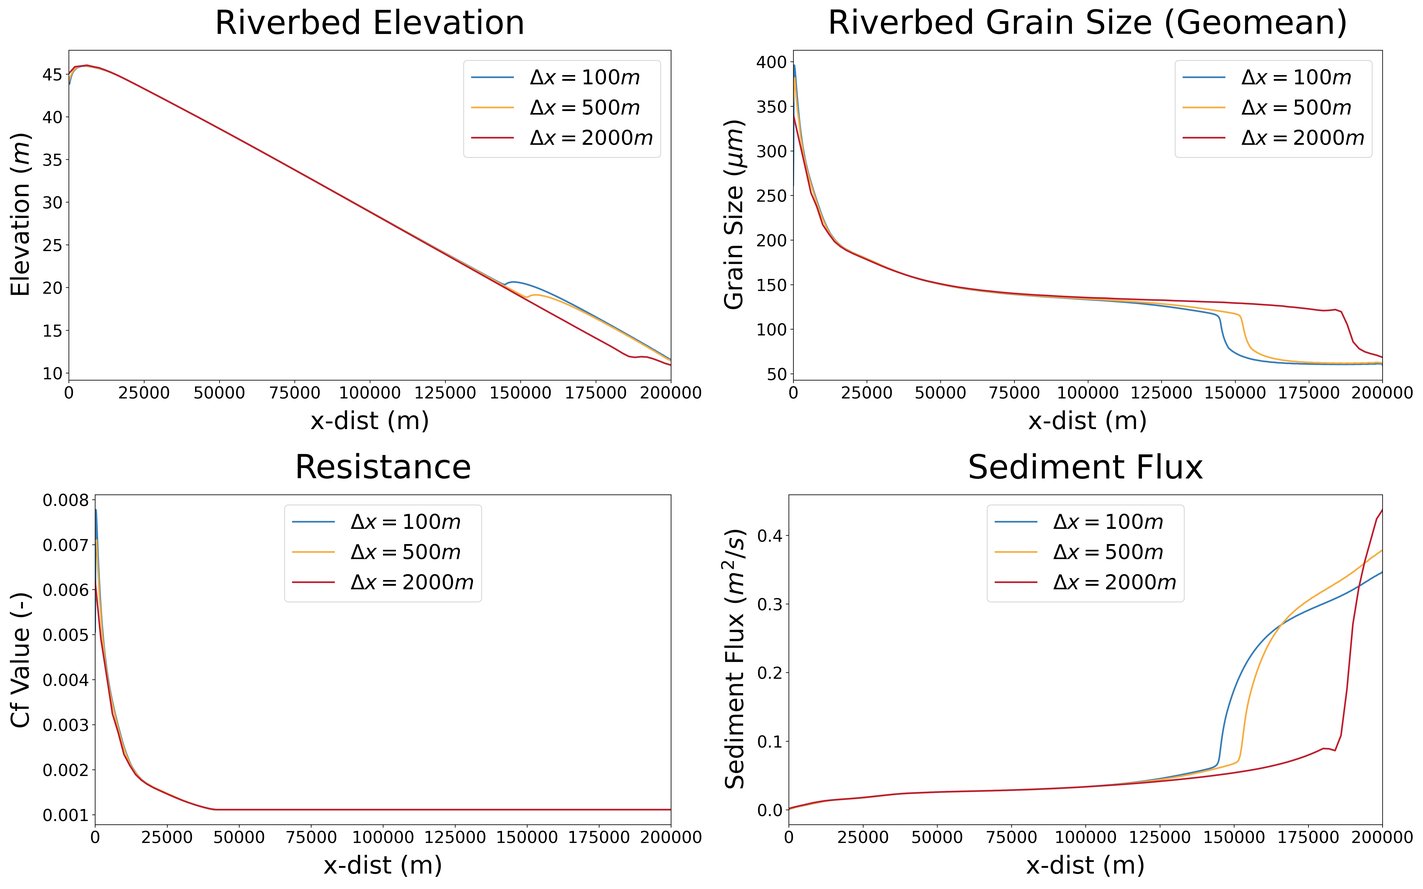
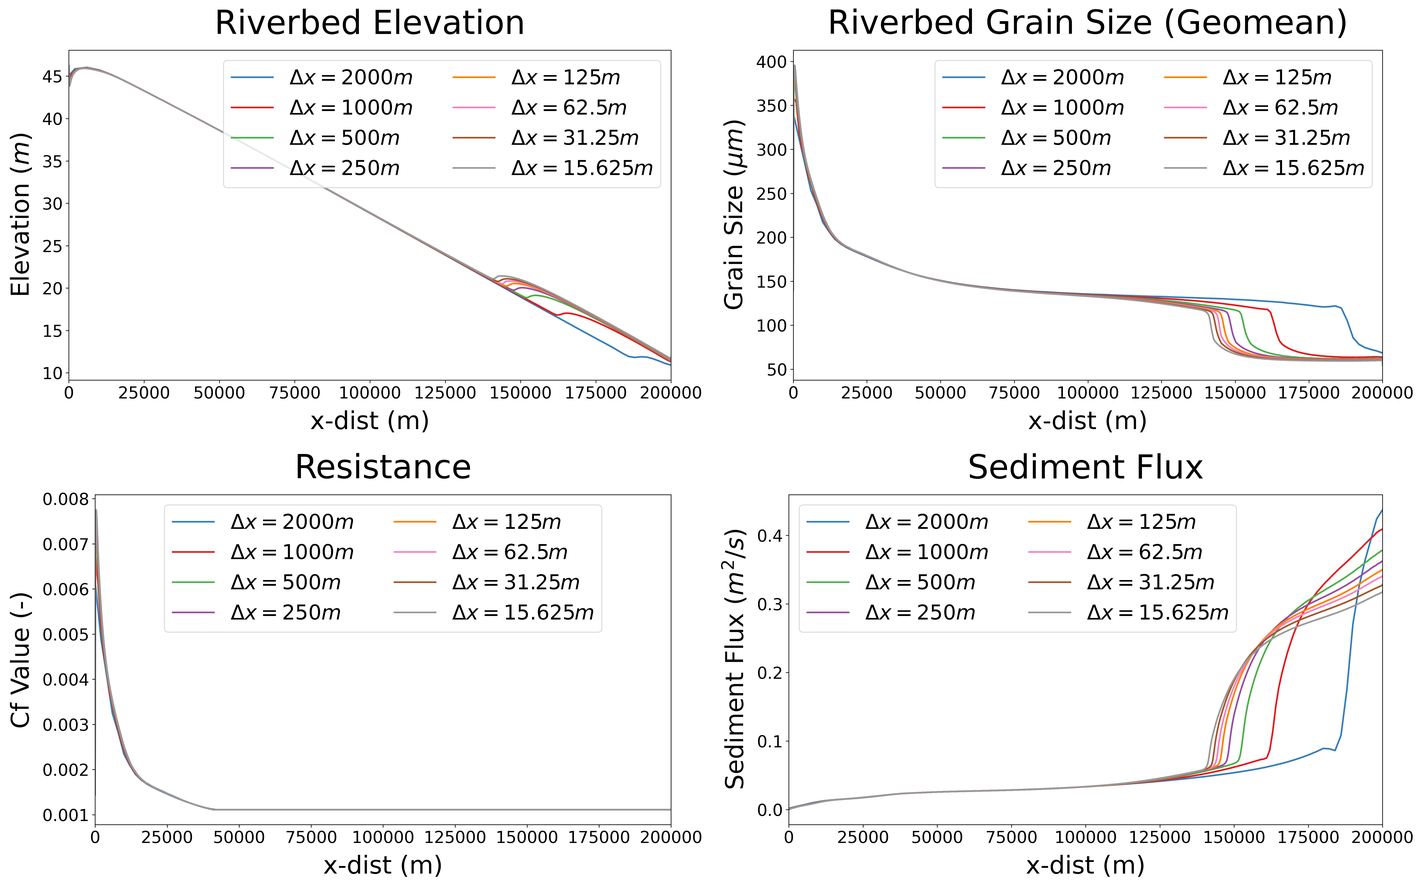
Site updated: 2025-11-06 12:26:18

diff --git a/2025/06/16/Transition-Morphodynamics/index.html b/2025/06/16/Transition-Morphodynamics/index.html
@@ -32,10 +32,16 @@
 <meta property="og:image" content="http://example.com/images/Transition-Morphodynamics/case3.png">
 <meta property="og:image" content="http://example.com/images/Transition-Morphodynamics/case4.png">
 <meta property="og:image" content="http://example.com/images/Transition-Morphodynamics/case5.png">
+<meta property="og:image" content="http://example.com/images/Transition-Morphodynamics/case6.png">
+<meta property="og:image" content="http://example.com/images/Transition-Morphodynamics/case7.png">
+<meta property="og:image" content="http://example.com/images/Transition-Morphodynamics/case8.png">
+<meta property="og:image" content="http://example.com/images/Transition-Morphodynamics/case9.png">
+<meta property="og:image" content="http://example.com/images/Transition-Morphodynamics/case10.png">
+<meta property="og:image" content="http://example.com/images/Transition-Morphodynamics/case11.png">
 <meta property="og:image" content="http://example.com/images/Transition-Morphodynamics/cmp1.png">
 <meta property="og:image" content="http://example.com/images/Transition-Morphodynamics/cmp2.png">
 <meta property="article:published_time" content="2025-06-16T02:21:08.000Z">
-<meta property="article:modified_time" content="2025-11-04T11:28:58.364Z">
+<meta property="article:modified_time" content="2025-11-06T03:57:17.822Z">
 <meta property="article:author" content="Tao Wang">
 <meta property="article:tag" content="Numerical Modeling">
 <meta name="twitter:card" content="summary">
@@ -190,7 +196,7 @@
                   <i class="far fa-calendar-check"></i>
                 </span>
                 <span class="post-meta-item-text">Edited on</span>
-                <time title="Modified: 2025-11-04 19:28:58" itemprop="dateModified" datetime="2025-11-04T19:28:58+08:00">2025-11-04</time>
+                <time title="Modified: 2025-11-06 11:57:17" itemprop="dateModified" datetime="2025-11-06T11:57:17+08:00">2025-11-06</time>
               </span>
 
           
@@ -304,25 +310,29 @@
 <h2 id="Case-3-sediment-cutoff-water-fluctuation-with-lower-magnitude"><a href="#Case-3-sediment-cutoff-water-fluctuation-with-lower-magnitude" class="headerlink" title="Case #3: sediment cutoff &amp; water fluctuation with lower magnitude"></a>Case #3: sediment cutoff &amp; water fluctuation with lower magnitude</h2><p>Similar with Case #2, but this case focuses on a lower variability, i.e., $A&#x3D;0.2$ for the magnitude。</p>
 <p><img src="/images/Transition-Morphodynamics/case3.png" alt="case3"></p>
 <p>The erosion wave progradates to $x\approx152km$, confirming that a higher magnitude brings a higher celerity.</p>
-<h2 id="Case-4-Finer-Grid"><a href="#Case-4-Finer-Grid" class="headerlink" title="Case #4: Finer Grid"></a>Case #4: Finer Grid</h2><p>This case is analogous with Case#3, increased grid number to enhance the resolution.</p>
-<p>$$<br>\begin{array}{cccc}  % 4列，均为居中对齐（l&#x3D;左对齐，r&#x3D;右对齐，c&#x3D;居中）<br>    \hline<br>    \text{Parameter} &amp; \text{Value} &amp; \text{Parameter} &amp; \text{Value} \\  % 第1行（表头）<br>    \hline<br>    L &amp; 200km &amp; \Delta x &amp; 0.1km\\<br>    q_w(t&#x3D;0) &amp; 10m^2&#x2F;s &amp; \text{GCFL} &amp; 0.5 \\<br>    q_C(t&#x3D;0) &amp; 2.33m^2&#x2F;s &amp; S &amp; 2\times 10^{-4}\\<br>    D_{sg} &amp; 75\mu m &amp; \sigma_D &amp; 2.5 \\<br>    A &amp; 0.2 &amp; n_w &amp; 10\\<br>    \hline  % 底部横线<br>\end{array}<br>$$</p>
+<h2 id="Case-4-Much-Finer-Grid1"><a href="#Case-4-Much-Finer-Grid1" class="headerlink" title="Case #4: Much Finer Grid1"></a>Case #4: Much Finer Grid1</h2><p>This case is analogous with Case#3, increased grid number to enhance the resolution, where the mesh grid is $\Delta x&#x3D;\frac{200km}{2000}&#x3D;100m$.</p>
 <p><img src="/images/Transition-Morphodynamics/case4.png"></p>
-<h2 id="Case-5-Coarser-Grid"><a href="#Case-5-Coarser-Grid" class="headerlink" title="Case #5: Coarser Grid"></a>Case #5: Coarser Grid</h2><p>This case is analogous with Case#3 and Case#4, decreased grid number to accelerate and test the robustness.</p>
-<p>$$<br>\begin{array}{cccc}  % 4列，均为居中对齐（l&#x3D;左对齐，r&#x3D;右对齐，c&#x3D;居中）<br>    \hline<br>    \text{Parameter} &amp; \text{Value} &amp; \text{Parameter} &amp; \text{Value} \\  % 第1行（表头）<br>    \hline<br>    L &amp; 200km &amp; \Delta x &amp; 2km\\<br>    q_w(t&#x3D;0) &amp; 10m^2&#x2F;s &amp; \text{GCFL} &amp; 0.5 \\<br>    q_C(t&#x3D;0) &amp; 2.33m^2&#x2F;s &amp; S &amp; 2\times 10^{-4}\\<br>    D_{sg} &amp; 75\mu m &amp; \sigma_D &amp; 2.5 \\<br>    A &amp; 0.2 &amp; n_w &amp; 10\\<br>    \hline  % 底部横线<br>\end{array}<br>$$</p>
+<h2 id="Case-5-Coarsest-Grid"><a href="#Case-5-Coarsest-Grid" class="headerlink" title="Case #5: Coarsest Grid"></a>Case #5: Coarsest Grid</h2><p>This case is analogous with Case#3, decreased grid number to test the accuracy, where the mesh grid is $\Delta x&#x3D;\frac{200km}{100}&#x3D;2000m$.</p>
 <p><img src="/images/Transition-Morphodynamics/case5.png"></p>
-<h2 id="Case-6-Finest-grid"><a href="#Case-6-Finest-grid" class="headerlink" title="Case #6: Finest grid"></a>Case #6: Finest grid</h2><p>$$<br>\begin{array}{cccc}  % 4列，均为居中对齐（l&#x3D;左对齐，r&#x3D;右对齐，c&#x3D;居中）<br>    \hline<br>    \text{Parameter} &amp; \text{Value} &amp; \text{Parameter} &amp; \text{Value} \\  % 第1行（表头）<br>    \hline<br>    L &amp; 200km &amp; \Delta x &amp; 31.25m\\<br>    q_w(t&#x3D;0) &amp; 10m^2&#x2F;s &amp; \text{GCFL} &amp; 0.5 \\<br>    q_C(t&#x3D;0) &amp; 2.33m^2&#x2F;s &amp; S &amp; 2\times 10^{-4}\\<br>    D_{sg} &amp; 75\mu m &amp; \sigma_D &amp; 2.5 \\<br>    A &amp; 0.2 &amp; n_w &amp; 10\\<br>    \hline  % 底部横线<br>\end{array}<br>$$</p>
-<h2 id="Case-7-Very-Fine"><a href="#Case-7-Very-Fine" class="headerlink" title="Case #7: Very Fine"></a>Case #7: Very Fine</h2><p>200km&#x2F;3200</p>
-<h2 id="Case-8"><a href="#Case-8" class="headerlink" title="Case #8"></a>Case #8</h2><p>200km&#x2F;1600</p>
-<h2 id="Case-9"><a href="#Case-9" class="headerlink" title="Case #9"></a>Case #9</h2><p>200km&#x2F;800</p>
-<h2 id="Case-10"><a href="#Case-10" class="headerlink" title="Case #10"></a>Case #10</h2><p>200km&#x2F;200</p>
-<h2 id="Case-11"><a href="#Case-11" class="headerlink" title="Case #11"></a>Case #11</h2><p>200km&#x2F;12800</p>
+<h2 id="Case-6-Very-Very-Fine-grid"><a href="#Case-6-Very-Very-Fine-grid" class="headerlink" title="Case #6: Very Very Fine grid"></a>Case #6: Very Very Fine grid</h2><p>This case is analogous with Case#3, increased grid number to enhance the resolution, where the mesh grid is $\Delta x&#x3D;\frac{200km}{6400}&#x3D;31.25m$</p>
+<p><img src="/images/Transition-Morphodynamics/case6.png"></p>
+<h2 id="Case-7-Very-Fine"><a href="#Case-7-Very-Fine" class="headerlink" title="Case #7: Very Fine"></a>Case #7: Very Fine</h2><p>This case is analogous with Case#3, increased grid number to enhance the resolution, where the mesh grid is $\Delta x&#x3D;\frac{200km}{3200}&#x3D;62.5m$</p>
+<p><img src="/images/Transition-Morphodynamics/case7.png"></p>
+<h2 id="Case-8-Much-Finer-Grid2"><a href="#Case-8-Much-Finer-Grid2" class="headerlink" title="Case #8 Much Finer Grid2"></a>Case #8 Much Finer Grid2</h2><p>This case is analogous with Case#3, increased grid number to enhance the resolution, where the mesh grid is $\Delta x&#x3D;\frac{200km}{1600}&#x3D;125m$</p>
+<p><img src="/images/Transition-Morphodynamics/case8.png"></p>
+<h2 id="Case-9-Finer-Grid"><a href="#Case-9-Finer-Grid" class="headerlink" title="Case #9 Finer Grid"></a>Case #9 Finer Grid</h2><p>This case is analogous with Case#3, increased grid number to enhance the resolution, where the mesh grid is $\Delta x&#x3D;\frac{200km}{800}&#x3D;250m$</p>
+<p><img src="/images/Transition-Morphodynamics/case9.png"></p>
+<h2 id="Case-10-Coarser-Grid"><a href="#Case-10-Coarser-Grid" class="headerlink" title="Case #10 Coarser Grid"></a>Case #10 Coarser Grid</h2><p>This case is analogous with Case#3, decreased grid number to test the accuracy and robustness, where the mesh grid is $\Delta x&#x3D;\frac{200km}{200}&#x3D;1000m$</p>
+<p><img src="/images/Transition-Morphodynamics/case10.png"></p>
+<h2 id="Case-11-Finest-Baseline-Grid"><a href="#Case-11-Finest-Baseline-Grid" class="headerlink" title="Case #11 Finest Baseline Grid"></a>Case #11 Finest Baseline Grid</h2><p>This case is analogous with Case#3, increased grid number to enhance the resolution and taken as the reference, where the mesh grid is $\Delta x&#x3D;\frac{200km}{12800}&#x3D;15.626m$</p>
+<p><img src="/images/Transition-Morphodynamics/case11.png"></p>
 <h1 id="Result"><a href="#Result" class="headerlink" title="Result"></a>Result</h1><h2 id="Impacts-of-flow-variability"><a href="#Impacts-of-flow-variability" class="headerlink" title="Impacts of flow variability"></a>Impacts of flow variability</h2><p>To demonstrate the impacts of flow variability, the magnitude of the sine function of water supply has been varied in Case #1, #2, #3. The comparison follows,</p>
 <p><img src="/images/Transition-Morphodynamics/cmp1.png"></p>
 <p>The scour holes have occured at different position, such that, the waves progradates at different paces and greater variability render a faster erosion wave. As to the part behind the erosion wave, the riverbed elevation profiles have shown no significant diference. Such that, flow variation makes no contribution to short-term riverbed downcutting, for which have reached quasi-equilibrium states.</p>
 <p>However, excluding the regions where flood waves have not yet arrived, the grain size distribution also differs. Greater flow variability leads to coarser bed material, as well as higher resistance coefficient and lower sediment entrainment capacity. Consequently, greater flow variability erodes riverbed much faster in a short-term view, while it also leaves a coarser riverbed for further long-term erosion.</p>
-<h2 id="Dependence-of-grid-meshes"><a href="#Dependence-of-grid-meshes" class="headerlink" title="Dependence of grid meshes"></a>Dependence of grid meshes</h2><p>To test the dependence of grid meshes and error levels, the density (or the length of spatial step) has been varied in Case #3, #4, #5. The comparison follows,</p>
+<h2 id="Dependence-of-grid-meshes"><a href="#Dependence-of-grid-meshes" class="headerlink" title="Dependence of grid meshes"></a>Dependence of grid meshes</h2><p>To test the dependence of grid meshes and error levels, the density (or the length of spatial step) has been varied in Case #3, and #4-#11. The comparison follows,</p>
 <p><img src="/images/Transition-Morphodynamics/cmp2.png" alt="compare2" title="grid meshes"></p>
-<p>Regions that have reached quasi-equilibrium states </p>
+<p>Regions that have reached quasi-equilibrium states show no significant differences, indicating that the ability to capture saturated sediment transport does not depend on grid meshes. However, regions near the inlet and the front of erosion wave have shown differences. Firstly, the celerity of erosion wave progradation shows a negative relation with spatial resolution, i.e., dispersion error, however, dispersion error converges when enhancing spatial resolution. On the other hand, the magnitudes of coarsening and downcutting does not differ significantly, indicating that the error is dominated by numerical dispersion rather than dissipation. Secondly, finer grid meshes form a sharper riverbed profile near the inlet, as well as grain size and resistance, but they also converge quickly.</p>
 
     </div>
 
@@ -396,7 +406,7 @@
 
       <!--noindex-->
       <div class="post-toc-wrap sidebar-panel">
-          <div class="post-toc motion-element"><ol class="nav"><li class="nav-item nav-level-1"><a class="nav-link" href="#Governing-Equations"><span class="nav-number">1.</span> <span class="nav-text">Governing Equations</span></a><ol class="nav-child"><li class="nav-item nav-level-2"><a class="nav-link" href="#Hydrodynamics-1D-Shallow-Water-with-Topography-and-Friction"><span class="nav-number">1.1.</span> <span class="nav-text">Hydrodynamics: 1D Shallow Water with Topography and Friction</span></a></li><li class="nav-item nav-level-2"><a class="nav-link" href="#Sediment-Concentration"><span class="nav-number">1.2.</span> <span class="nav-text">Sediment Concentration</span></a></li><li class="nav-item nav-level-2"><a class="nav-link" href="#Exner-Equation-for-Riverbed-Elevation"><span class="nav-number">1.3.</span> <span class="nav-text">Exner Equation for Riverbed Elevation</span></a></li><li class="nav-item nav-level-2"><a class="nav-link" href="#Riverbed-Surface-Grain-Fraction-and-Exchange-with-Substrates"><span class="nav-number">1.4.</span> <span class="nav-text">Riverbed Surface Grain Fraction and Exchange with Substrates</span></a></li><li class="nav-item nav-level-2"><a class="nav-link" href="#Substrate-Stratigraphy"><span class="nav-number">1.5.</span> <span class="nav-text">Substrate Stratigraphy</span></a></li><li class="nav-item nav-level-2"><a class="nav-link" href="#Resistance-and-Sediment-Transport-Capacity"><span class="nav-number">1.6.</span> <span class="nav-text">Resistance and Sediment Transport Capacity</span></a></li></ol></li><li class="nav-item nav-level-1"><a class="nav-link" href="#Characteristic-Scales-and-Numerical-Rigidity"><span class="nav-number">2.</span> <span class="nav-text">Characteristic Scales and Numerical Rigidity</span></a><ol class="nav-child"><li class="nav-item nav-level-2"><a class="nav-link" href="#Hydrodynamics-and-Sediment-Concentration-Transport"><span class="nav-number">2.1.</span> <span class="nav-text">Hydrodynamics and Sediment Concentration Transport</span></a></li><li class="nav-item nav-level-2"><a class="nav-link" href="#Deposition-and-Erosion"><span class="nav-number">2.2.</span> <span class="nav-text">Deposition and Erosion</span></a></li><li class="nav-item nav-level-2"><a class="nav-link" href="#Riverbed"><span class="nav-number">2.3.</span> <span class="nav-text">Riverbed</span></a></li><li class="nav-item nav-level-2"><a class="nav-link" href="#Numerical-Rigidity-and-Stability-Condition"><span class="nav-number">2.4.</span> <span class="nav-text">Numerical Rigidity and Stability Condition</span></a></li></ol></li><li class="nav-item nav-level-1"><a class="nav-link" href="#Numerical-schemes"><span class="nav-number">3.</span> <span class="nav-text">Numerical schemes</span></a><ol class="nav-child"><li class="nav-item nav-level-2"><a class="nav-link" href="#Hydrodynamics"><span class="nav-number">3.1.</span> <span class="nav-text">Hydrodynamics</span></a><ol class="nav-child"><li class="nav-item nav-level-3"><a class="nav-link" href="#Well-balanced-HLLC-Flux-for-Topography-and-Friction"><span class="nav-number">3.1.1.</span> <span class="nav-text">Well-balanced HLLC Flux for Topography and Friction</span></a></li><li class="nav-item nav-level-3"><a class="nav-link" href="#Semi-implicit-evolution"><span class="nav-number">3.1.2.</span> <span class="nav-text">Semi-implicit evolution</span></a></li></ol></li><li class="nav-item nav-level-2"><a class="nav-link" href="#Sediment-Transport"><span class="nav-number">3.2.</span> <span class="nav-text">Sediment Transport</span></a><ol class="nav-child"><li class="nav-item nav-level-3"><a class="nav-link" href="#Numerical-Convection-Flux"><span class="nav-number">3.2.1.</span> <span class="nav-text">Numerical Convection Flux</span></a></li><li class="nav-item nav-level-3"><a class="nav-link" href="#Unsaturated-Sediment-Entrainment-Source-Term"><span class="nav-number">3.2.2.</span> <span class="nav-text">Unsaturated Sediment Entrainment Source Term</span></a></li></ol></li></ol></li><li class="nav-item nav-level-1"><a class="nav-link" href="#Numerical-Experiment"><span class="nav-number">4.</span> <span class="nav-text">Numerical Experiment</span></a><ol class="nav-child"><li class="nav-item nav-level-2"><a class="nav-link" href="#Case-1-sediment-cutoff"><span class="nav-number">4.1.</span> <span class="nav-text">Case #1: sediment cutoff</span></a></li><li class="nav-item nav-level-2"><a class="nav-link" href="#Case-2-sediment-cutoff-frenquent-and-fierce-water-fluctuation"><span class="nav-number">4.2.</span> <span class="nav-text">Case #2: sediment cutoff &amp; frenquent and fierce water fluctuation</span></a></li><li class="nav-item nav-level-2"><a class="nav-link" href="#Case-3-sediment-cutoff-water-fluctuation-with-lower-magnitude"><span class="nav-number">4.3.</span> <span class="nav-text">Case #3: sediment cutoff &amp; water fluctuation with lower magnitude</span></a></li><li class="nav-item nav-level-2"><a class="nav-link" href="#Case-4-Finer-Grid"><span class="nav-number">4.4.</span> <span class="nav-text">Case #4: Finer Grid</span></a></li><li class="nav-item nav-level-2"><a class="nav-link" href="#Case-5-Coarser-Grid"><span class="nav-number">4.5.</span> <span class="nav-text">Case #5: Coarser Grid</span></a></li><li class="nav-item nav-level-2"><a class="nav-link" href="#Case-6-Finest-grid"><span class="nav-number">4.6.</span> <span class="nav-text">Case #6: Finest grid</span></a></li><li class="nav-item nav-level-2"><a class="nav-link" href="#Case-7-Very-Fine"><span class="nav-number">4.7.</span> <span class="nav-text">Case #7: Very Fine</span></a></li><li class="nav-item nav-level-2"><a class="nav-link" href="#Case-8"><span class="nav-number">4.8.</span> <span class="nav-text">Case #8</span></a></li><li class="nav-item nav-level-2"><a class="nav-link" href="#Case-9"><span class="nav-number">4.9.</span> <span class="nav-text">Case #9</span></a></li><li class="nav-item nav-level-2"><a class="nav-link" href="#Case-10"><span class="nav-number">4.10.</span> <span class="nav-text">Case #10</span></a></li><li class="nav-item nav-level-2"><a class="nav-link" href="#Case-11"><span class="nav-number">4.11.</span> <span class="nav-text">Case #11</span></a></li></ol></li><li class="nav-item nav-level-1"><a class="nav-link" href="#Result"><span class="nav-number">5.</span> <span class="nav-text">Result</span></a><ol class="nav-child"><li class="nav-item nav-level-2"><a class="nav-link" href="#Impacts-of-flow-variability"><span class="nav-number">5.1.</span> <span class="nav-text">Impacts of flow variability</span></a></li><li class="nav-item nav-level-2"><a class="nav-link" href="#Dependence-of-grid-meshes"><span class="nav-number">5.2.</span> <span class="nav-text">Dependence of grid meshes</span></a></li></ol></li></ol></div>
+          <div class="post-toc motion-element"><ol class="nav"><li class="nav-item nav-level-1"><a class="nav-link" href="#Governing-Equations"><span class="nav-number">1.</span> <span class="nav-text">Governing Equations</span></a><ol class="nav-child"><li class="nav-item nav-level-2"><a class="nav-link" href="#Hydrodynamics-1D-Shallow-Water-with-Topography-and-Friction"><span class="nav-number">1.1.</span> <span class="nav-text">Hydrodynamics: 1D Shallow Water with Topography and Friction</span></a></li><li class="nav-item nav-level-2"><a class="nav-link" href="#Sediment-Concentration"><span class="nav-number">1.2.</span> <span class="nav-text">Sediment Concentration</span></a></li><li class="nav-item nav-level-2"><a class="nav-link" href="#Exner-Equation-for-Riverbed-Elevation"><span class="nav-number">1.3.</span> <span class="nav-text">Exner Equation for Riverbed Elevation</span></a></li><li class="nav-item nav-level-2"><a class="nav-link" href="#Riverbed-Surface-Grain-Fraction-and-Exchange-with-Substrates"><span class="nav-number">1.4.</span> <span class="nav-text">Riverbed Surface Grain Fraction and Exchange with Substrates</span></a></li><li class="nav-item nav-level-2"><a class="nav-link" href="#Substrate-Stratigraphy"><span class="nav-number">1.5.</span> <span class="nav-text">Substrate Stratigraphy</span></a></li><li class="nav-item nav-level-2"><a class="nav-link" href="#Resistance-and-Sediment-Transport-Capacity"><span class="nav-number">1.6.</span> <span class="nav-text">Resistance and Sediment Transport Capacity</span></a></li></ol></li><li class="nav-item nav-level-1"><a class="nav-link" href="#Characteristic-Scales-and-Numerical-Rigidity"><span class="nav-number">2.</span> <span class="nav-text">Characteristic Scales and Numerical Rigidity</span></a><ol class="nav-child"><li class="nav-item nav-level-2"><a class="nav-link" href="#Hydrodynamics-and-Sediment-Concentration-Transport"><span class="nav-number">2.1.</span> <span class="nav-text">Hydrodynamics and Sediment Concentration Transport</span></a></li><li class="nav-item nav-level-2"><a class="nav-link" href="#Deposition-and-Erosion"><span class="nav-number">2.2.</span> <span class="nav-text">Deposition and Erosion</span></a></li><li class="nav-item nav-level-2"><a class="nav-link" href="#Riverbed"><span class="nav-number">2.3.</span> <span class="nav-text">Riverbed</span></a></li><li class="nav-item nav-level-2"><a class="nav-link" href="#Numerical-Rigidity-and-Stability-Condition"><span class="nav-number">2.4.</span> <span class="nav-text">Numerical Rigidity and Stability Condition</span></a></li></ol></li><li class="nav-item nav-level-1"><a class="nav-link" href="#Numerical-schemes"><span class="nav-number">3.</span> <span class="nav-text">Numerical schemes</span></a><ol class="nav-child"><li class="nav-item nav-level-2"><a class="nav-link" href="#Hydrodynamics"><span class="nav-number">3.1.</span> <span class="nav-text">Hydrodynamics</span></a><ol class="nav-child"><li class="nav-item nav-level-3"><a class="nav-link" href="#Well-balanced-HLLC-Flux-for-Topography-and-Friction"><span class="nav-number">3.1.1.</span> <span class="nav-text">Well-balanced HLLC Flux for Topography and Friction</span></a></li><li class="nav-item nav-level-3"><a class="nav-link" href="#Semi-implicit-evolution"><span class="nav-number">3.1.2.</span> <span class="nav-text">Semi-implicit evolution</span></a></li></ol></li><li class="nav-item nav-level-2"><a class="nav-link" href="#Sediment-Transport"><span class="nav-number">3.2.</span> <span class="nav-text">Sediment Transport</span></a><ol class="nav-child"><li class="nav-item nav-level-3"><a class="nav-link" href="#Numerical-Convection-Flux"><span class="nav-number">3.2.1.</span> <span class="nav-text">Numerical Convection Flux</span></a></li><li class="nav-item nav-level-3"><a class="nav-link" href="#Unsaturated-Sediment-Entrainment-Source-Term"><span class="nav-number">3.2.2.</span> <span class="nav-text">Unsaturated Sediment Entrainment Source Term</span></a></li></ol></li></ol></li><li class="nav-item nav-level-1"><a class="nav-link" href="#Numerical-Experiment"><span class="nav-number">4.</span> <span class="nav-text">Numerical Experiment</span></a><ol class="nav-child"><li class="nav-item nav-level-2"><a class="nav-link" href="#Case-1-sediment-cutoff"><span class="nav-number">4.1.</span> <span class="nav-text">Case #1: sediment cutoff</span></a></li><li class="nav-item nav-level-2"><a class="nav-link" href="#Case-2-sediment-cutoff-frenquent-and-fierce-water-fluctuation"><span class="nav-number">4.2.</span> <span class="nav-text">Case #2: sediment cutoff &amp; frenquent and fierce water fluctuation</span></a></li><li class="nav-item nav-level-2"><a class="nav-link" href="#Case-3-sediment-cutoff-water-fluctuation-with-lower-magnitude"><span class="nav-number">4.3.</span> <span class="nav-text">Case #3: sediment cutoff &amp; water fluctuation with lower magnitude</span></a></li><li class="nav-item nav-level-2"><a class="nav-link" href="#Case-4-Much-Finer-Grid1"><span class="nav-number">4.4.</span> <span class="nav-text">Case #4: Much Finer Grid1</span></a></li><li class="nav-item nav-level-2"><a class="nav-link" href="#Case-5-Coarsest-Grid"><span class="nav-number">4.5.</span> <span class="nav-text">Case #5: Coarsest Grid</span></a></li><li class="nav-item nav-level-2"><a class="nav-link" href="#Case-6-Very-Very-Fine-grid"><span class="nav-number">4.6.</span> <span class="nav-text">Case #6: Very Very Fine grid</span></a></li><li class="nav-item nav-level-2"><a class="nav-link" href="#Case-7-Very-Fine"><span class="nav-number">4.7.</span> <span class="nav-text">Case #7: Very Fine</span></a></li><li class="nav-item nav-level-2"><a class="nav-link" href="#Case-8-Much-Finer-Grid2"><span class="nav-number">4.8.</span> <span class="nav-text">Case #8 Much Finer Grid2</span></a></li><li class="nav-item nav-level-2"><a class="nav-link" href="#Case-9-Finer-Grid"><span class="nav-number">4.9.</span> <span class="nav-text">Case #9 Finer Grid</span></a></li><li class="nav-item nav-level-2"><a class="nav-link" href="#Case-10-Coarser-Grid"><span class="nav-number">4.10.</span> <span class="nav-text">Case #10 Coarser Grid</span></a></li><li class="nav-item nav-level-2"><a class="nav-link" href="#Case-11-Finest-Baseline-Grid"><span class="nav-number">4.11.</span> <span class="nav-text">Case #11 Finest Baseline Grid</span></a></li></ol></li><li class="nav-item nav-level-1"><a class="nav-link" href="#Result"><span class="nav-number">5.</span> <span class="nav-text">Result</span></a><ol class="nav-child"><li class="nav-item nav-level-2"><a class="nav-link" href="#Impacts-of-flow-variability"><span class="nav-number">5.1.</span> <span class="nav-text">Impacts of flow variability</span></a></li><li class="nav-item nav-level-2"><a class="nav-link" href="#Dependence-of-grid-meshes"><span class="nav-number">5.2.</span> <span class="nav-text">Dependence of grid meshes</span></a></li></ol></li></ol></div>
       </div>
       <!--/noindex-->
 

diff --git a/index.html b/index.html
@@ -179,7 +179,7 @@
                   <i class="far fa-calendar-check"></i>
                 </span>
                 <span class="post-meta-item-text">Edited on</span>
-                <time title="Modified: 2025-11-04 19:28:58" itemprop="dateModified" datetime="2025-11-04T19:28:58+08:00">2025-11-04</time>
+                <time title="Modified: 2025-11-06 11:57:17" itemprop="dateModified" datetime="2025-11-06T11:57:17+08:00">2025-11-06</time>
               </span>
 
           

diff --git a/css/main.css b/css/main.css
@@ -1168,7 +1168,7 @@ pre .javascript .function {
 }
 .links-of-author a::before,
 .links-of-author span.exturl::before {
-  background: #f0f;
+  background: #ffdfd6;
   border-radius: 50%;
   content: ' ';
   display: inline-block;
